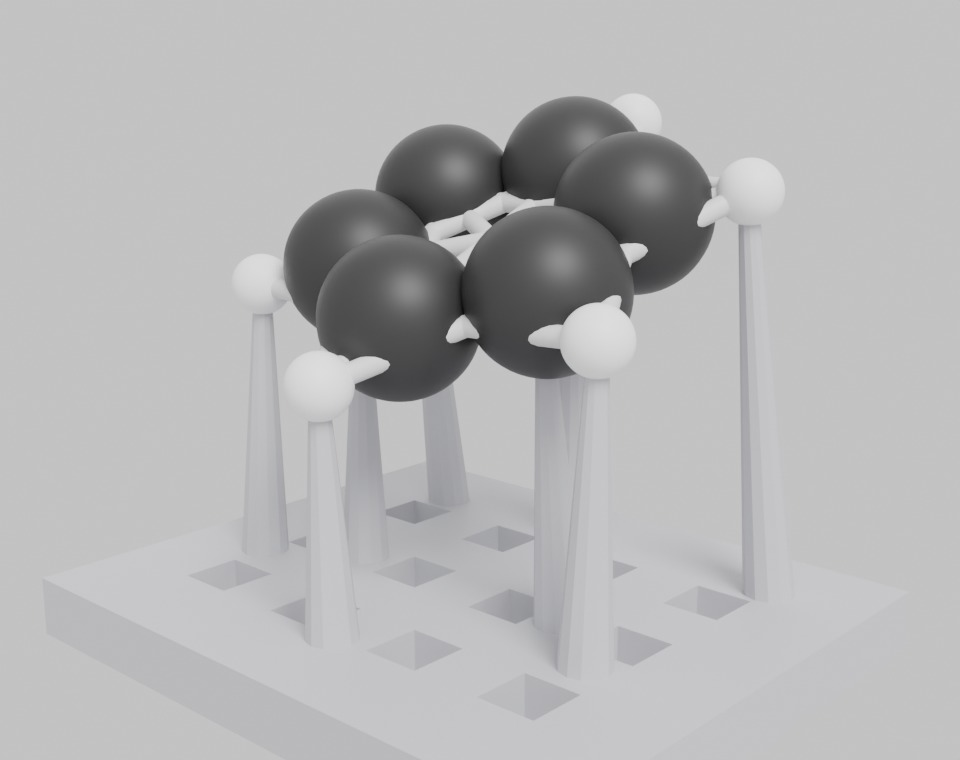
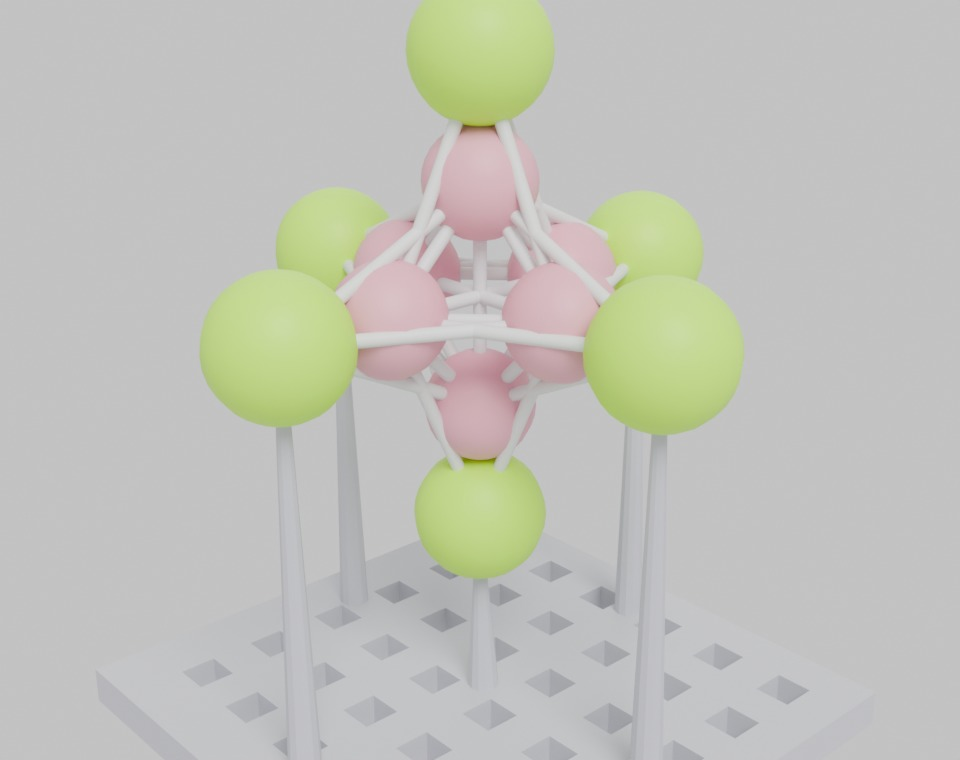
Supports: widen bond cutoff so cluster bonds are seen (fixes B6Cl6)
build_supports derived bonds at 1.2x the covalent-radii sum, which
misses cluster bonds such as the B6 octahedron edges (~1.42x). The
consequence on [B6Cl6]2-: the equatorial B atoms were treated as
un-anchored (10 pillars instead of 5) and pillars ignored the B-B bonds
they had to climb past, so one ran straight through an octahedron edge.
Raising the cutoff to 1.5x (still well below the ~2x cross-cluster
distance) sees those bonds, so the B atoms are correctly grounded by
their lower neighbours and the pillars route around every drawn bond
(verified 0.77 A clearance to the bond mesh).

The gallery 3D-print panel is re-rendered from B6Cl62-.xyz with the
default 3D-print import settings.

diff --git a/blender_importASE/exports.py b/blender_importASE/exports.py
@@ -84,9 +84,11 @@ def build_supports(atom_objects, collection, base_radius=0.25, tip_radius=0.1,
     n = len(centers)
 
     # bond / contact connectivity (bonds match the drawn ones; 'touching'
-    # also catches non-bonded spheres one rests on)
+    # also catches non-bonded spheres one rests on). The 1.5 factor spans
+    # cluster bonds like the B6 octahedron edges (~1.42x the covalent-radii
+    # sum) while staying well below cross-cluster distances (~2x)
     distances = np.linalg.norm(centers[:, None, :] - centers[None, :, :], axis=2)
-    bonded = (distances < 1.2 * (bond_radii[:, None] + bond_radii[None, :]))
+    bonded = (distances < 1.5 * (bond_radii[:, None] + bond_radii[None, :]))
     touching = distances < (sphere_radii[:, None] + sphere_radii[None, :] + 0.3)
     holds = (bonded | touching) & ~np.eye(n, dtype=bool)
 